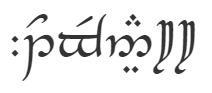
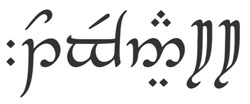
Updates the Readme

diff --git a/README.md b/README.md
@@ -1,3 +1,5 @@
+![alt text](https://raw.githubusercontent.com/masterjeef/elvish-gen/master/toQuenya.jpg "Tengwar Transcriber")
+
 # Tengwar Transcriber
 
 Tengwar is a type of Elvish scripting. My transcriber simply converts English characters to Tengwar, it will not translate English to Tengwar.
